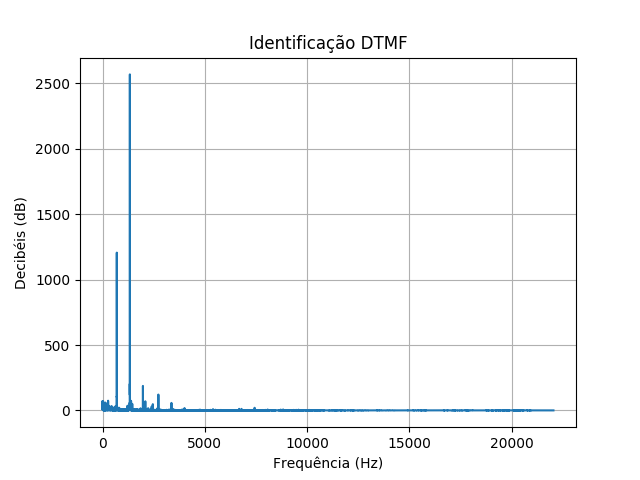
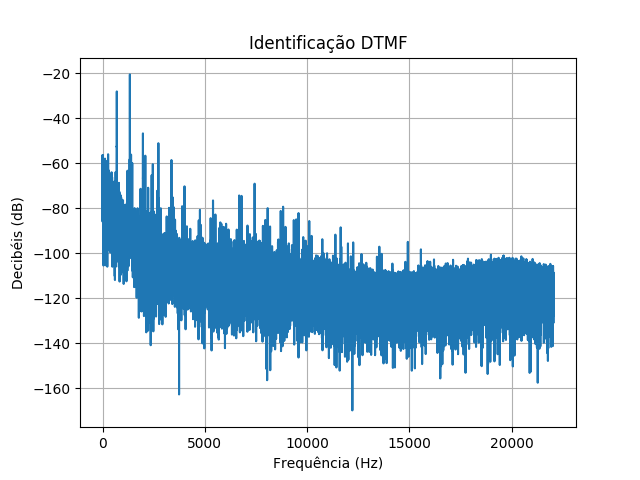
saving imgs again

diff --git a/decoderDTMF.py b/decoderDTMF.py
@@ -45,14 +45,14 @@ class DecoderDTMF:
         for value in y:
             new_value = 10*math.log(value/ymax)
             y_db.append(new_value)
-        plt.plot(x, y)
+        # value = input("numero do arquivo: ")
+        plt.plot(x, y_db)
         plt.grid(True)
         plt.ylabel("Decibéis (dB)")
         plt.xlabel("Frequência (Hz)")
         plt.title("Identificação DTMF")
-        fig.savefig("fourier/transmited/1.png")
+        fig.savefig("fourier/transmited/9.png")
         plt.show()
-        
 
     def save_data(self,y):
         # Save a dictionary into a pickle file.
@@ -67,7 +67,7 @@ class DecoderDTMF:
 
     def getFreqs(self, lista):
         cleared_indexes = []
-        indexes = find_peaks_cwt(lista, np.arange(1,200))
+        indexes = find_peaks_cwt(lista, np.arange(1, 300))
         indexes = indexes//2
         for value in list(indexes):
             if 650 <= value <= 1700:

diff --git a/main.py b/main.py
@@ -93,7 +93,7 @@ class Screen:
         self.btnfn = fn
 
     def askopenfile(self):
-        fileName = filedialog.askopenfilename(initialdir = "/", title = "Select file",filetypes = (("pickle files","*.p"), ("all files","*.*")))
+        fileName = filedialog.askopenfilename(initialdir = "/home/documents/Escola/Insper/rapha/dtmf_raphorba/", title = "Select file",filetypes = (("pickle files","*.p"), ("all files","*.*")))
         self.fileDir = fileName
         split = fileName.split('/')
         self.insertButton.configure(text='Arquivo: ' + split[len(split) - 1])
